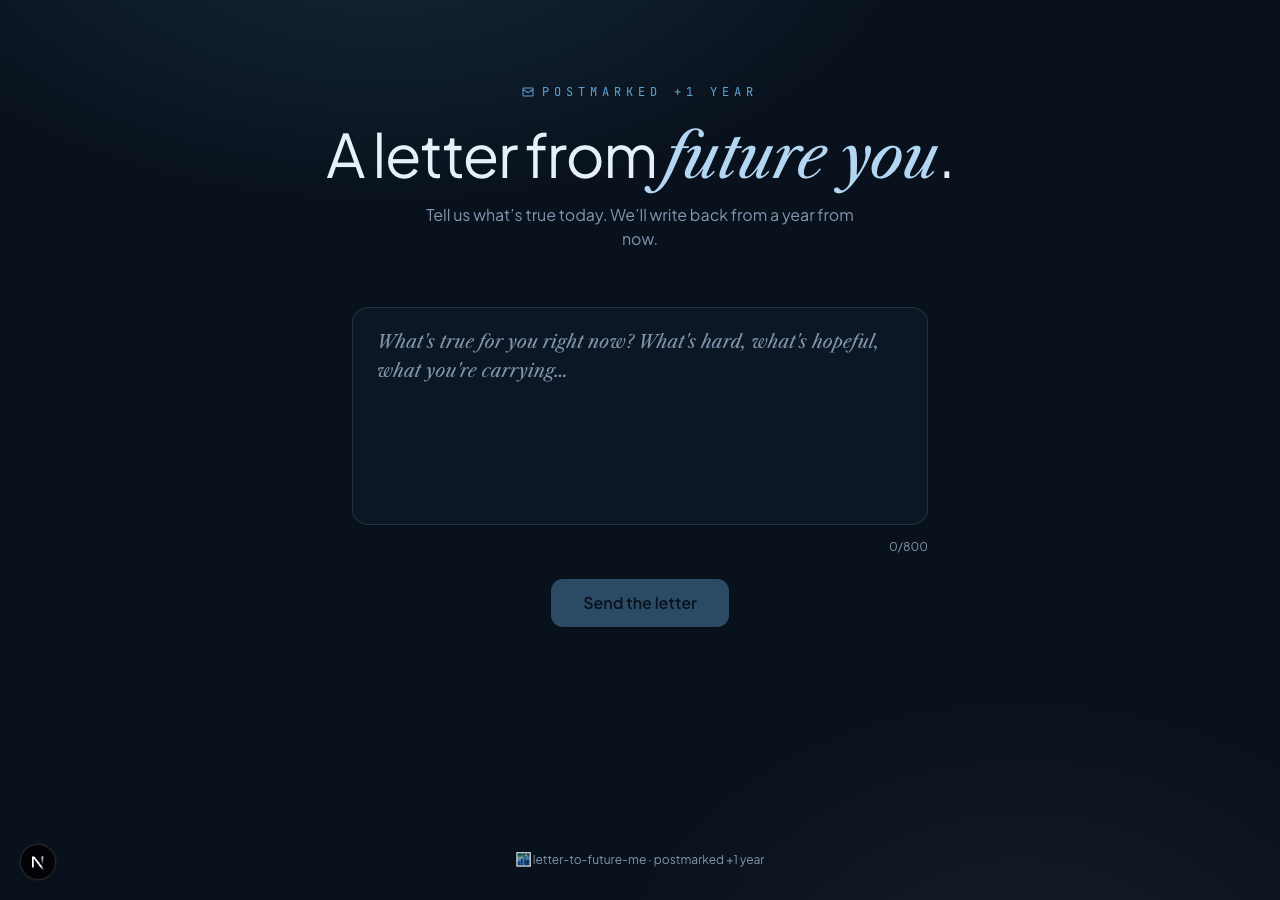
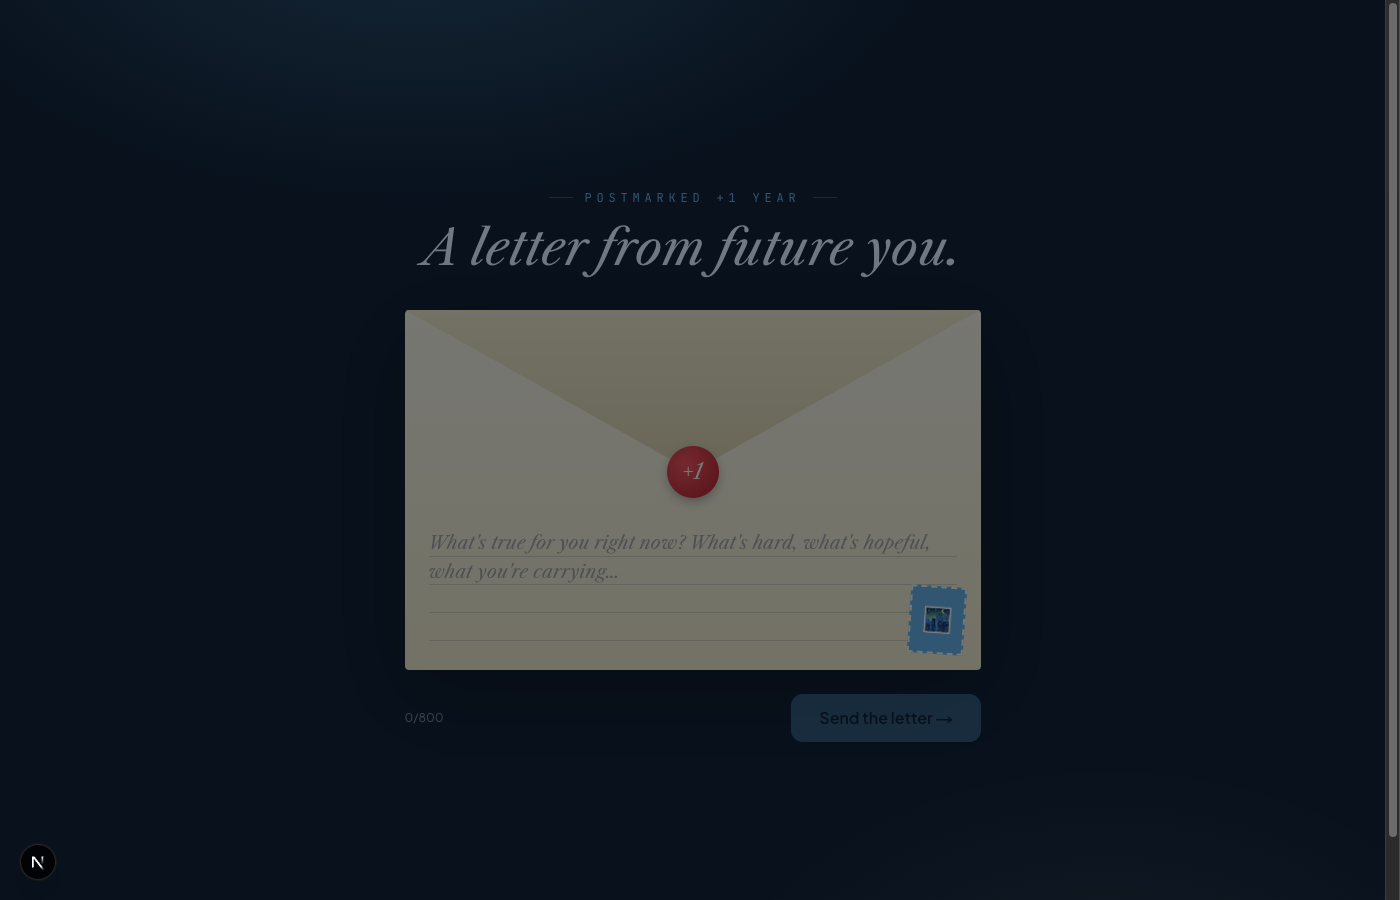
feat: actual envelope layout — write inside the envelope, then unfold
- Stars + moon are now full-bleed background ornaments (was inside card)
- Input is rendered AS an envelope: triangular flap on top, wax seal in
  the center, postage stamp in the corner, ruled-line textarea below
- Result animation: scaleY unfold from bottom, with horizontal crease
  lines drawn into the paper background (origami feel)
- Truly distinct layout — letter literally unfolds from where the
  envelope was, not a separate card slide

diff --git a/src/app/page.tsx b/src/app/page.tsx
@@ -2,7 +2,7 @@
 
 import { useRef, useState } from "react";
 import { motion, AnimatePresence } from "framer-motion";
-import { Download, RefreshCw, Share2, Mail } from "lucide-react";
+import { Download, RefreshCw, Share2 } from "lucide-react";
 import { toPng } from "html-to-image";
 import { EnvelopeCard } from "@/components/envelope-card";
 
@@ -28,7 +28,9 @@ export default function Home() {
       });
       const data = await res.json();
       if (!res.ok) setError(data.error ?? "Mail truck broke down.");
-      else setLetter(data);
+      else {
+        setLetter(data);
+      }
     } catch (err) {
       setError(err instanceof Error ? err.message : "Network error");
     } finally {
@@ -55,12 +57,7 @@ export default function Home() {
     if (!letter) return;
     const text = `${letter.date}\n\n${letter.letter}\n\n— ${letter.preview}`;
     if (navigator.share) {
-      try {
-        await navigator.share({ title: "Letter to Future Me", text });
-        return;
-      } catch {
-        /* fall through */
-      }
+      try { await navigator.share({ title: "Letter to Future Me", text }); return; } catch {}
     }
     await navigator.clipboard.writeText(text);
     alert("Letter copied");
@@ -68,86 +65,223 @@ export default function Home() {
 
   return (
     <main className="flex-1 flex flex-col">
-      <header className="px-6 pt-12 sm:pt-20 pb-2 text-center">
-        <div className="inline-flex items-center gap-2 mb-6 text-xs font-mono text-accent uppercase tracking-[0.4em]">
-          <Mail className="h-3 w-3" /> postmarked +1 year
-        </div>
-        <h1 className="text-4xl sm:text-6xl tracking-tight text-ink">
-          A letter from{" "}
-          <span className="font-display italic font-medium text-accent-2">
-            future you
-          </span>.
-        </h1>
-        <p className="mt-4 text-ink-dim max-w-md mx-auto">
-          Tell us what&rsquo;s true today. We&rsquo;ll write back from a year from now.
-        </p>
-      </header>
+      {/* STARS — fixed background, full bleed */}
+      <div className="fixed inset-0 pointer-events-none -z-10">
+        {Array.from({ length: 80 }).map((_, i) => {
+          const seed = (i * 9301 + 49297) % 233280;
+          const x = (seed % 100) / 100;
+          const y = ((seed * 1.7) % 100) / 100;
+          const size = ((seed % 5) + 1) * 0.4;
+          const op = 0.2 + (seed % 80) / 100;
+          return (
+            <div
+              key={i}
+              style={{
+                position: "absolute",
+                left: `${x * 100}%`,
+                top: `${y * 100}%`,
+                width: size,
+                height: size,
+                borderRadius: "50%",
+                background: "#e6f0fa",
+                opacity: op,
+                boxShadow: `0 0 ${size * 2}px rgba(230,240,250,${op * 0.6})`,
+              }}
+            />
+          );
+        })}
+      </div>
 
-      <section className="flex-1 px-6 py-12">
+      {/* MOON — top-right ornament */}
+      <div
+        aria-hidden
+        className="fixed top-12 right-12 -z-10 hidden sm:block"
+        style={{
+          width: 70,
+          height: 70,
+          borderRadius: "50%",
+          background: "radial-gradient(circle at 35% 35%, #f4ead4 0%, #d8c89a 60%, transparent 100%)",
+          boxShadow: "0 0 60px rgba(244,234,212,0.3)",
+        }}
+      />
+
+      <section className="flex-1 flex items-center justify-center px-6 py-16 min-h-screen">
         <AnimatePresence mode="wait">
           {!letter ? (
-            <motion.form
-              key="input"
-              onSubmit={submit}
-              initial={{ opacity: 0, y: 10 }}
-              animate={{ opacity: 1, y: 0 }}
-              exit={{ opacity: 0, y: -8 }}
-              transition={{ duration: 0.4 }}
-              className="w-full max-w-xl mx-auto"
-            >
-              <textarea
-                value={present}
-                onChange={(e) => setPresent(e.target.value)}
-                placeholder="What's true for you right now? What's hard, what's hopeful, what you're carrying…"
-                rows={6}
-                maxLength={800}
-                className="w-full bg-bg-2/60 border border-ink-dim/20 rounded-2xl px-6 py-5 text-ink placeholder-ink-dim font-display italic text-lg leading-relaxed focus:border-accent/60 focus:outline-none resize-none"
-              />
-              <div className="mt-2 text-right text-xs text-ink-dim">{present.length}/800</div>
-              <div className="mt-6 flex justify-center">
-                <button
-                  type="submit"
-                  disabled={!present.trim() || loading}
-                  className="px-8 py-3 rounded-xl bg-accent text-bg font-semibold hover:bg-accent-2 transition disabled:opacity-40 disabled:cursor-not-allowed"
-                >
-                  {loading ? "Walking to the mailbox…" : "Send the letter"}
-                </button>
-              </div>
-              {error && <p className="mt-4 text-center text-sm text-rust">{error}</p>}
-            </motion.form>
-          ) : (
+            // ENVELOPE — closed, you write your message INSIDE the envelope flap
             <motion.div
-              key="result"
-              initial={{ opacity: 0, y: 16 }}
+              key="envelope-closed"
+              initial={{ opacity: 0, y: 20 }}
               animate={{ opacity: 1, y: 0 }}
+              exit={{ opacity: 0, scale: 0.9 }}
               transition={{ duration: 0.5 }}
-              className="w-full max-w-xl mx-auto"
+              className="w-full max-w-xl"
             >
-              <div
-                className="rounded-lg p-8"
+              <div className="text-center mb-8">
+                <div className="inline-flex items-center gap-3 mb-3 text-xs font-mono text-accent uppercase tracking-[0.4em]">
+                  <span className="h-px w-6 bg-accent/40" />
+                  postmarked +1 year
+                  <span className="h-px w-6 bg-accent/40" />
+                </div>
+                <h1 className="font-display italic text-4xl sm:text-5xl text-ink leading-tight">
+                  A letter from future you.
+                </h1>
+              </div>
+
+              <form
+                onSubmit={submit}
+                className="relative"
+                style={{ perspective: 1200 }}
+              >
+                {/* envelope body */}
+                <div
+                  className="relative rounded-sm overflow-hidden"
+                  style={{
+                    background: "linear-gradient(180deg, #f4ead4 0%, #ecdfb8 100%)",
+                    color: "#1d2c3d",
+                    boxShadow: "0 25px 80px rgba(0,0,0,0.6)",
+                    aspectRatio: "1.6 / 1",
+                    minHeight: 360,
+                  }}
+                >
+                  {/* envelope flap (top triangle) */}
+                  <div
+                    aria-hidden
+                    className="absolute top-0 left-0 right-0 pointer-events-none"
+                    style={{
+                      height: "45%",
+                      background:
+                        "linear-gradient(180deg, #ecdfb8 0%, #d8c89a 100%)",
+                      clipPath: "polygon(0 0, 100% 0, 50% 100%)",
+                      borderBottom: "1px solid rgba(29,44,61,0.2)",
+                    }}
+                  />
+                  {/* wax seal */}
+                  <div
+                    aria-hidden
+                    className="absolute"
+                    style={{
+                      top: "calc(45% - 26px)",
+                      left: "50%",
+                      transform: "translateX(-50%)",
+                      width: 52,
+                      height: 52,
+                      borderRadius: "50%",
+                      background:
+                        "radial-gradient(circle at 35% 35%, #ef4444 0%, #b91c1c 80%)",
+                      boxShadow: "0 4px 10px rgba(0,0,0,0.3)",
+                      display: "flex",
+                      alignItems: "center",
+                      justifyContent: "center",
+                      color: "#f4ead4",
+                      fontFamily: "var(--font-libre), serif",
+                      fontStyle: "italic",
+                      fontSize: 22,
+                    }}
+                  >
+                    +1
+                  </div>
+
+                  {/* address lines (textarea overlay below the flap) */}
+                  <div className="absolute inset-0 flex items-end justify-center p-6 pt-[50%]">
+                    <textarea
+                      value={present}
+                      onChange={(e) => setPresent(e.target.value)}
+                      placeholder="What's true for you right now? What's hard, what's hopeful, what you're carrying…"
+                      rows={4}
+                      maxLength={800}
+                      className="w-full bg-transparent text-[#1d2c3d] placeholder-[#1d2c3d]/40 font-display italic text-base sm:text-lg leading-relaxed focus:outline-none resize-none"
+                      style={{
+                        backgroundImage:
+                          "repeating-linear-gradient(180deg, transparent 0, transparent 27px, rgba(29,44,61,0.18) 27px, rgba(29,44,61,0.18) 28px)",
+                      }}
+                    />
+                  </div>
+
+                  {/* postage stamp */}
+                  <div
+                    aria-hidden
+                    className="absolute"
+                    style={{
+                      bottom: 16,
+                      right: 16,
+                      width: 56,
+                      height: 68,
+                      background: "#5fa3d3",
+                      border: "2px dashed #f4ead4",
+                      outline: "1px solid #5fa3d3",
+                      outlineOffset: -5,
+                      display: "flex",
+                      alignItems: "center",
+                      justifyContent: "center",
+                      transform: "rotate(4deg)",
+                      fontSize: 28,
+                    }}
+                  >
+                    🌃
+                  </div>
+                </div>
+
+                <div className="mt-6 flex items-center justify-between">
+                  <div className="text-xs text-ink-dim">{present.length}/800</div>
+                  <button
+                    type="submit"
+                    disabled={!present.trim() || loading}
+                    className="px-7 py-3 rounded-xl bg-accent text-bg font-semibold hover:bg-accent-2 transition disabled:opacity-40 disabled:cursor-not-allowed"
+                  >
+                    {loading ? "Walking to the mailbox…" : "Send the letter →"}
+                  </button>
+                </div>
+                {error && <p className="mt-3 text-center text-sm text-rust">{error}</p>}
+              </form>
+            </motion.div>
+          ) : (
+            // OPENED — letter unfolds upward from the envelope
+            <motion.div
+              key="opened"
+              initial={{ opacity: 0, y: 20 }}
+              animate={{ opacity: 1, y: 0 }}
+              transition={{ duration: 0.6 }}
+              className="w-full max-w-xl"
+            >
+              {/* unfolded letter, with origami crease lines */}
+              <motion.div
+                initial={{ opacity: 0, scaleY: 0.85, originY: 1 }}
+                animate={{ opacity: 1, scaleY: 1 }}
+                transition={{ duration: 0.7, delay: 0.1, ease: [0.22, 1, 0.36, 1] }}
+                className="relative rounded-sm p-8 sm:p-10"
                 style={{
                   background: "linear-gradient(180deg, #f4ead4 0%, #ecdfb8 100%)",
                   color: "#1d2c3d",
-                  boxShadow: "0 14px 40px rgba(0,0,0,0.45)",
+                  boxShadow: "0 30px 90px rgba(0,0,0,0.55)",
+                  backgroundImage:
+                    "linear-gradient(180deg, transparent 0%, transparent 33%, rgba(29,44,61,0.05) 33%, transparent 33.5%, transparent 66%, rgba(29,44,61,0.05) 66%, transparent 66.5%), linear-gradient(180deg, #f4ead4 0%, #ecdfb8 100%)",
                 }}
               >
-                <div className="font-mono uppercase text-xs tracking-[0.4em] opacity-60">
+                <div className="font-mono uppercase text-[10px] tracking-[0.5em] opacity-60">
                   a letter from
                 </div>
-                <div className="font-display italic text-2xl sm:text-3xl mt-1">{letter.date}</div>
+                <div className="font-display italic text-2xl sm:text-3xl mt-1">
+                  {letter.date}
+                </div>
                 <div className="my-4 h-px bg-current opacity-20" />
-                <p className="font-display text-lg leading-relaxed whitespace-pre-wrap">
+                <p className="font-display text-base sm:text-lg leading-relaxed whitespace-pre-wrap">
                   {letter.letter}
                 </p>
-                <div className="mt-5 pt-3 border-t border-current/20">
+                <div className="mt-6 pt-3 border-t border-current/20">
                   <div className="font-mono uppercase text-[10px] tracking-[0.4em] opacity-60">
                     on the envelope
                   </div>
                   <p className="font-display italic mt-1">&ldquo;{letter.preview}&rdquo;</p>
                 </div>
+              </motion.div>
+
+              {/* hidden ref for download */}
+              <div aria-hidden style={{ position: "fixed", left: "-99999px", top: 0, pointerEvents: "none" }}>
+                <EnvelopeCard ref={cardRef} {...letter} />
               </div>
 
-              <div className="mt-6 flex flex-wrap items-center justify-center gap-3">
+              <div className="mt-6 flex flex-wrap items-center justify-center gap-2">
                 <button onClick={download} className="inline-flex items-center gap-2 rounded-xl bg-accent px-5 py-3 text-bg font-semibold hover:bg-accent-2 transition">
                   <Download className="h-4 w-4" /> Download
                 </button>
@@ -158,16 +292,12 @@ export default function Home() {
                   <RefreshCw className="h-4 w-4" /> New letter
                 </button>
               </div>
-
-              <div aria-hidden style={{ position: "fixed", left: "-99999px", top: 0, pointerEvents: "none" }}>
-                <EnvelopeCard ref={cardRef} {...letter} />
-              </div>
             </motion.div>
           )}
         </AnimatePresence>
       </section>
 
-      <footer className="px-6 py-8 text-center text-xs text-ink-dim">
+      <footer className="px-6 py-6 text-center text-xs text-ink-dim">
         🌃 letter-to-future-me · postmarked +1 year
       </footer>
     </main>
